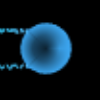
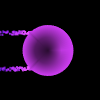
#79 | Render at the correct resolution

Changed region(s): [[0.0, 0.21, 0.75, 0.78]]

diff --git a/lib/src/shared/systems/logic.dart b/lib/src/shared/systems/logic.dart
@@ -113,8 +113,8 @@ class DigestiveSystem extends _$DigestiveSystem {
       final angle = random.nextDouble() * 2 * pi;
       world.createAndAddEntity([
         Particle(),
-        Position(foodPosition.x + foodSize.radius * cos(angle),
-            foodPosition.y + foodSize.radius * sin(angle)),
+        Position(foodPosition.x + foodSize.radius * cos(angle) * 0.9,
+            foodPosition.y + foodSize.radius * sin(angle) * 0.9),
         Color.fromHsl(hsl[0], hsl[1] + 0.1, hsl[2] + 0.1, 1.0),
         Lifetime(0.1)
       ]);

diff --git a/lib/src/client/systems/rendering.dart b/lib/src/client/systems/rendering.dart
@@ -158,7 +158,7 @@ class FoodRenderingSystem extends _$FoodRenderingSystem {
     final itemOffset = index * 6;
     items[itemOffset] = position.x;
     items[itemOffset + 1] = position.y;
-    items[itemOffset + 2] = size.radius / cameraManager.gameZoom;
+    items[itemOffset + 2] = size.radius / cameraManager.scalingFactor;
     items[itemOffset + 3] = food.r;
     items[itemOffset + 4] = food.g;
     items[itemOffset + 5] = food.b;

diff --git a/lib/client.dart b/lib/client.dart
@@ -107,7 +107,7 @@ class Game extends GameBase {
     container.style
       ..width = '${camera.clientWidth}px'
       ..height = '${camera.clientHeight}px';
-    resizeCanvas(hudCanvas, useClientSize: true);
+    resizeCanvas(hudCanvas);
     _configureHud();
     super.handleResize();
   }

diff --git a/web/CHANGELOG.md b/web/CHANGELOG.md
@@ -6,6 +6,7 @@
 
 ## Bugfixes
 * QuadTree wasn't updated correctly for moving stuff between two nodes resulting in performance degration over time
+* improved rendering quality
 
 # 0.6.0 (2018-09-25)
 
